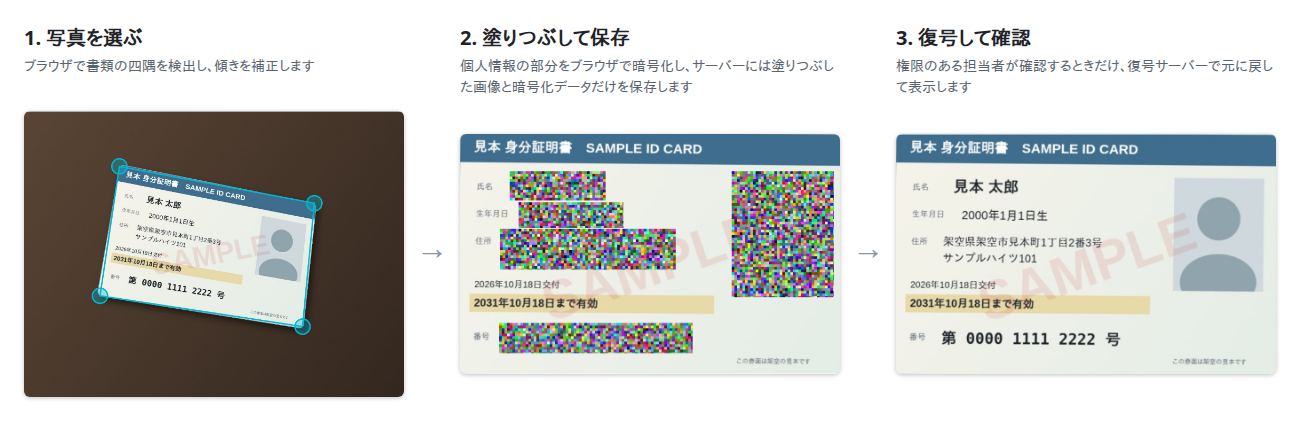
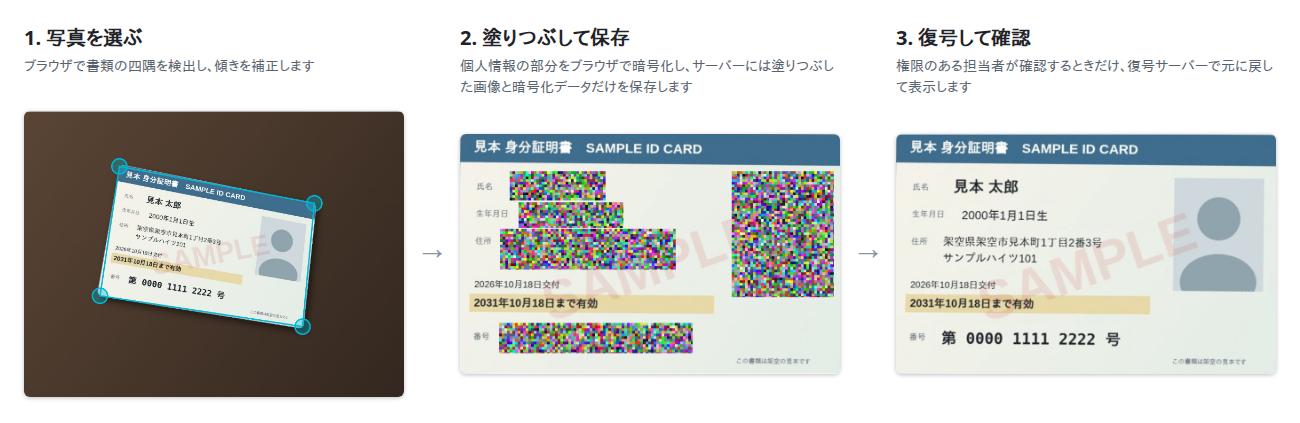
docs: 普段使わない言葉を言い換える
* 「券面」は「書類」、「外接矩形」は「範囲を囲む四角形」に直し、初めて読む人にも分かるようにした
* 見本の写真と README の画像の中の文字も同じく直した。写真は文字の部分だけが変わり、結合テストはそのまま通る

Changed region(s): [[0.3692, 0.3995, 0.5231, 0.6454], [0.5538, 0.3995, 0.6462, 0.7069], [0.3692, 0.7376, 0.5538, 0.8605]]

diff --git a/packages/core/src/jwe.ts b/packages/core/src/jwe.ts
@@ -23,8 +23,8 @@ export interface SealedFile {
   tag: string
 }
 
-// 範囲ごとの元画像。box は範囲の外接矩形、jpeg はその矩形を切り出した JPEG 画像。
-// JPEG は透明を持てないので、矩形の中で範囲の外にあたる画素も含む。
+// 範囲ごとの元画像。box は範囲を囲む四角形、jpeg はその四角形を切り出した JPEG 画像。
+// JPEG は透明を持てないので、四角形の中で範囲の外にあたる画素も含む。
 export interface RegionImage {
   id: string
   box: Box
@@ -85,7 +85,7 @@ function joinBytes(a: Uint8Array, b: Uint8Array): Uint8Array<ArrayBuffer> {
   return out
 }
 
-// 範囲ごとの画像が、ヘッダーの範囲と順番・ID・外接矩形まで一致するかを検証する。
+// 範囲ごとの画像が、ヘッダーの範囲と順番・ID・範囲を囲む四角形まで一致するかを検証する。
 function checkImages(images: RegionImage[], header: SealpixHeader): void {
   if (images.length !== header.regions.length) {
     throw new SealpixError('invalid_region', '画像の数が範囲の数と一致しません')
@@ -99,12 +99,12 @@ function checkImages(images: RegionImage[], header: SealpixHeader): void {
     ) {
       throw new SealpixError('invalid_region', '画像が範囲と一致しません')
     }
-    // 復号した画像を表示する前に、画像の幅と高さが外接矩形と一致するかを確認しておく
+    // 復号した画像を表示する前に、画像の幅と高さが範囲を囲む四角形と一致するかを確認しておく
     const size = jpegSize(image.jpeg)
     if (size === null || size[0] !== image.box[2] || size[1] !== image.box[3]) {
       throw new SealpixError(
         'invalid_region',
-        '範囲の画像が JPEG でないか、サイズが外接矩形と一致しません',
+        '範囲の画像が JPEG でないか、サイズが範囲を囲む四角形と一致しません',
       )
     }
   })

diff --git a/packages/browser/src/seal-image.ts b/packages/browser/src/seal-image.ts
@@ -70,7 +70,7 @@ export function paintRegions(canvas: HTMLCanvasElement, regions: RegionShape[]):
   }
 }
 
-// 範囲の外接矩形を切り出した JPEG を作る。JPEG は透明を持てないので、矩形の中で範囲の外にあたる
+// 範囲を囲む四角形を切り出した JPEG を作る。JPEG は透明を持てないので、四角形の中で範囲の外にあたる
 // 画素も含む。その画素は、塗りつぶした画像に写っている部分か、同じ暗号化データに入るほかの範囲の一部。
 export async function cropRegion(
   canvas: HTMLCanvasElement,

diff --git a/packages/core/test/jwe.test.ts b/packages/core/test/jwe.test.ts
@@ -192,7 +192,7 @@ describe('暗号化ファイル', () => {
     )
   })
 
-  it('JPEG でない画像や、外接矩形と大きさが違う画像は拒否する', async () => {
+  it('JPEG でない画像や、範囲を囲む四角形と大きさが違う画像は拒否する', async () => {
     const withImage = (bytes: Uint8Array): RegionImage[] => [
       { ...images[0], jpeg: bytes },
       images[1],

diff --git a/templates/README.md b/templates/README.md
@@ -7,7 +7,7 @@
 | `jp-driver-license-front.json` | 運転免許証（表） | 氏名、生年月日、住所、交付年月日・照会番号、有効期限、免許の条件等、免許証番号、免許の取得年月日、免許の種類、顔写真、公安委員会 |
 | `jp-driver-license-back.json`  | 運転免許証（裏） | 裏面全体                                                                                                                         |
 
-運転免許証の位置は、公開されている見本の券面から測ったものです。実物の券面での確認はまだ行っていません。位置のずれは、ポリシーの `padding` で広げて吸収してください。
+運転免許証の位置は、公開されている運転免許証の見本の画像から測ったものです。実物の運転免許証での確認はまだ行っていません。位置がずれるときは、ポリシーの `padding` で範囲を広げてください。
 
 ## 形式
 
